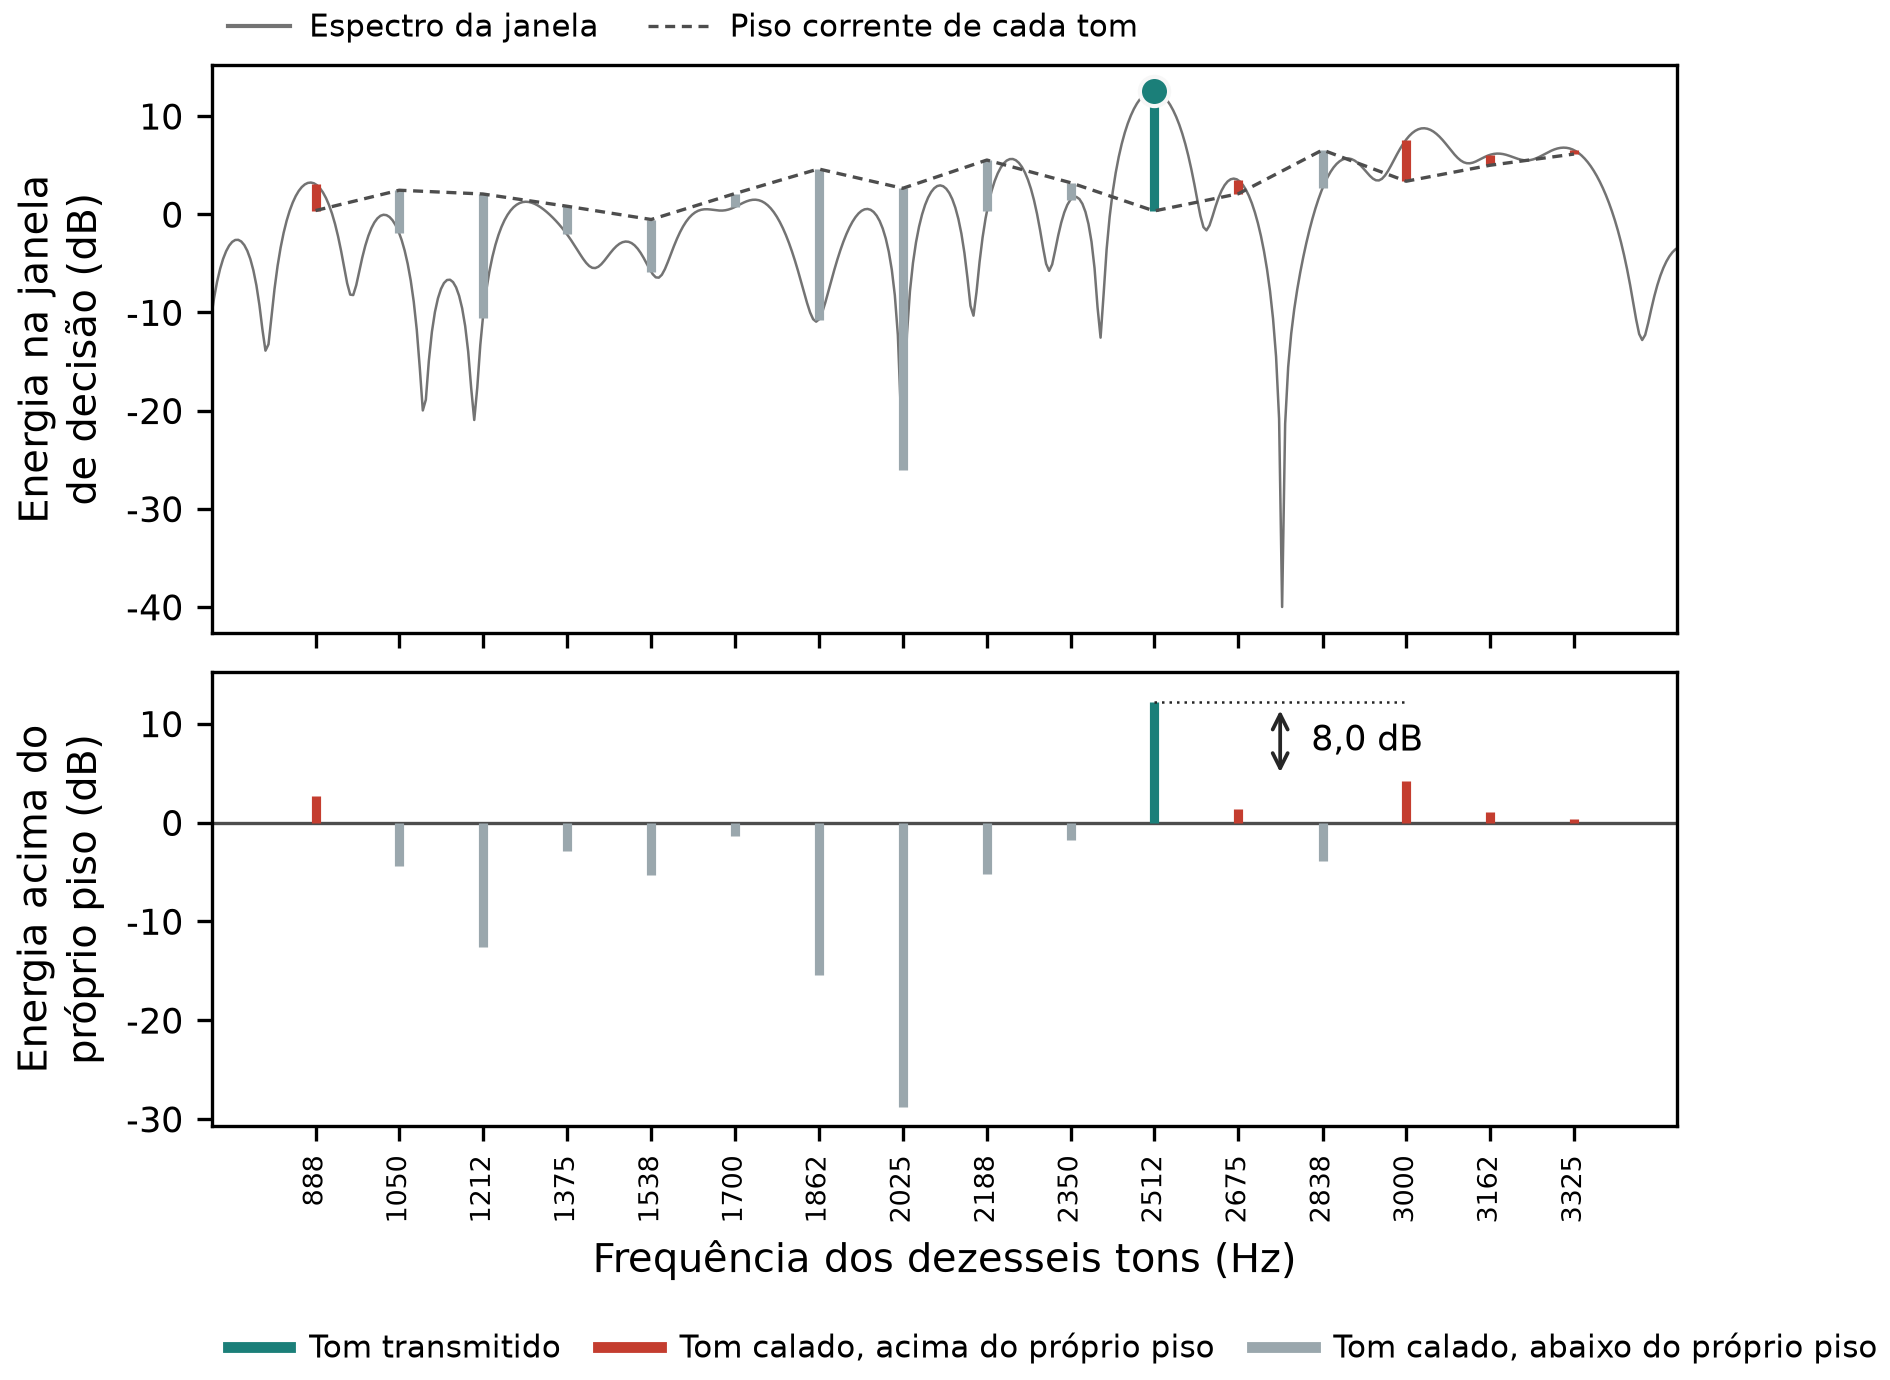
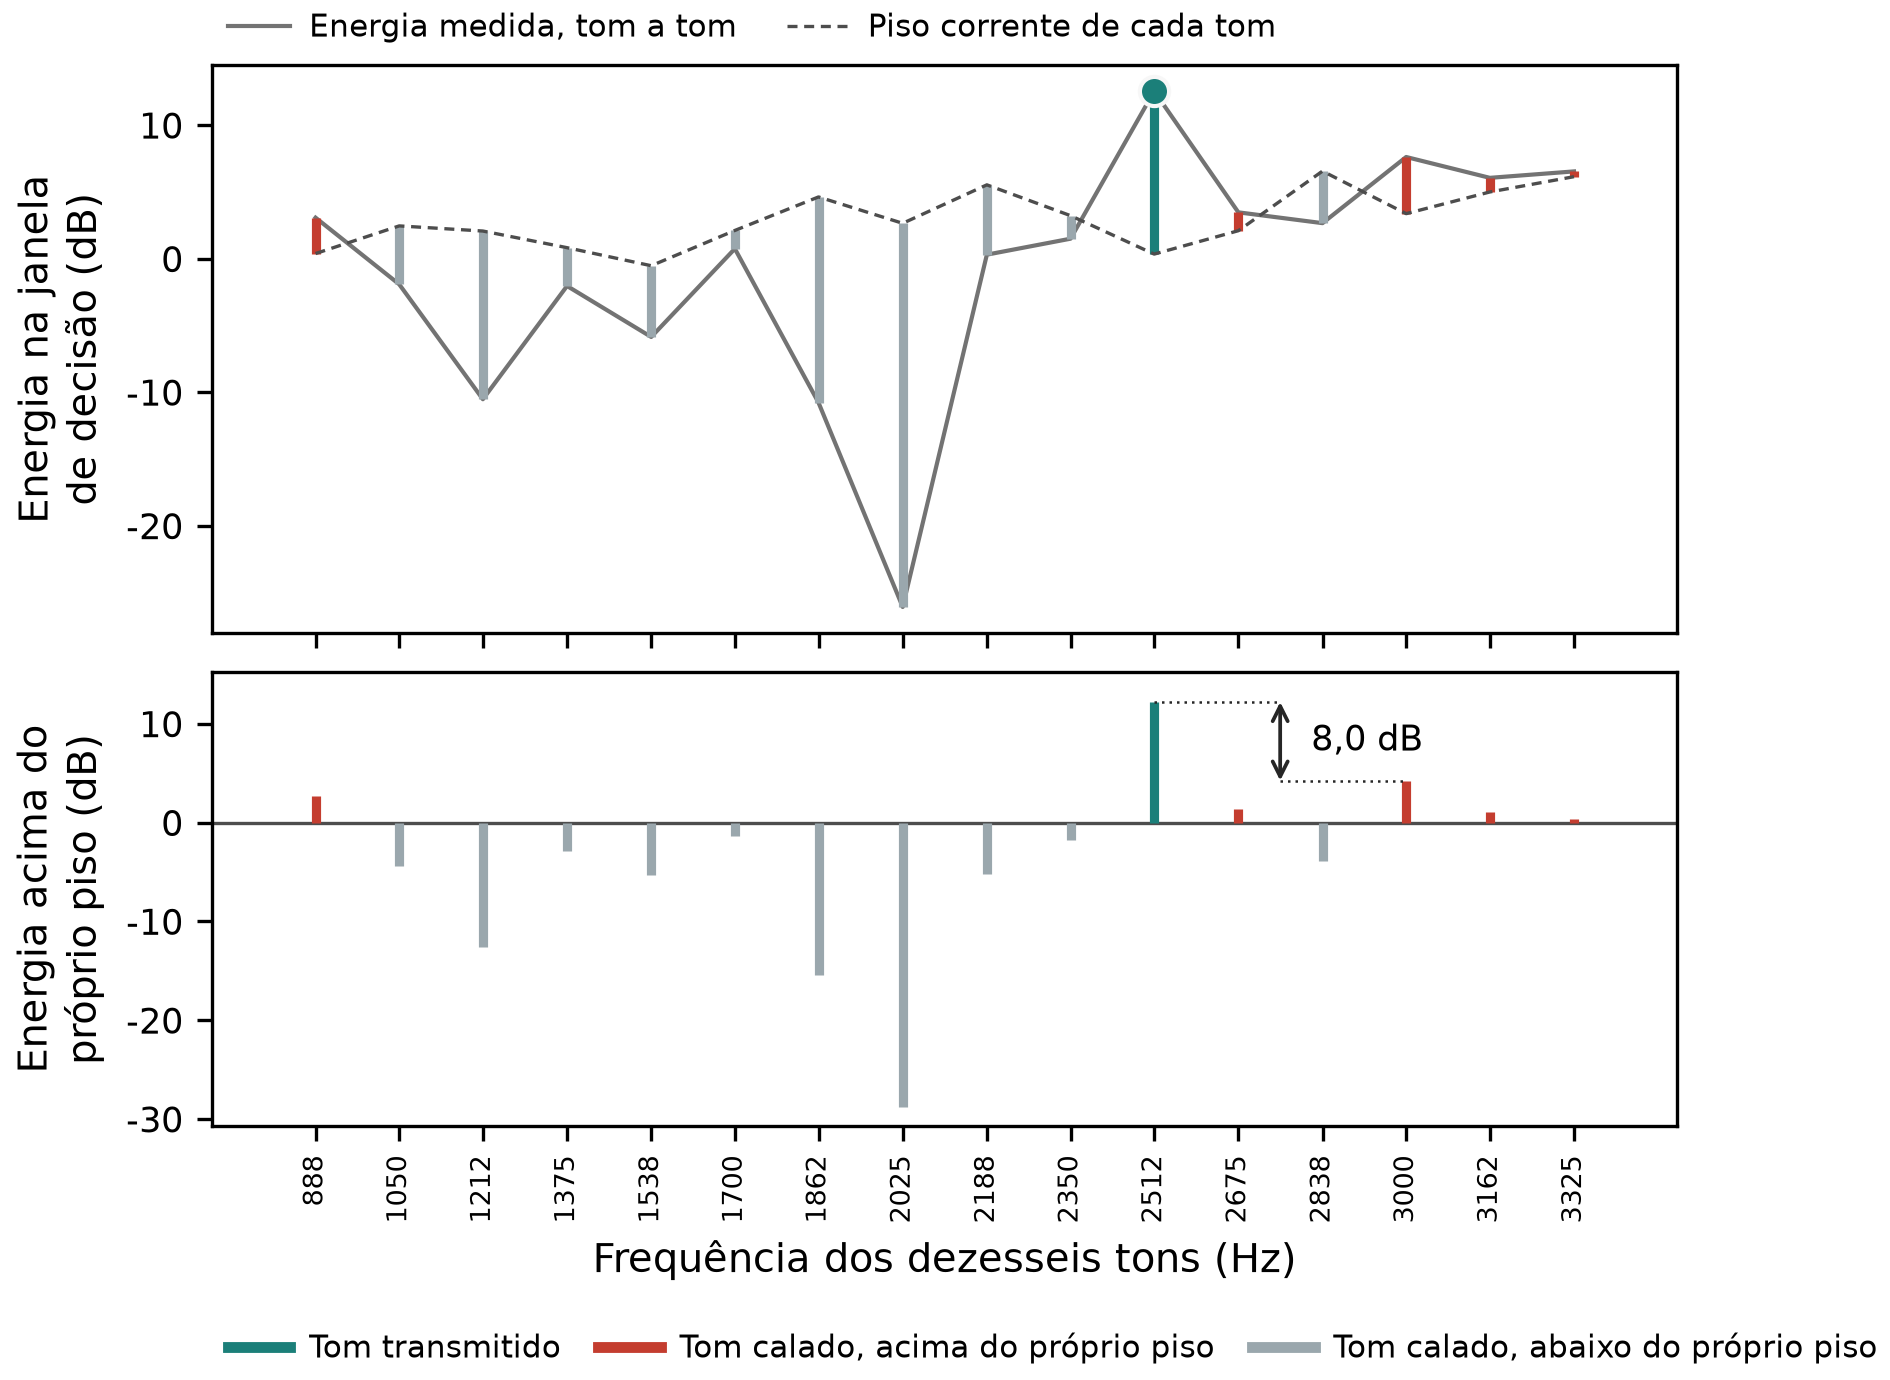
docs: a guarda é 15%, e os 35% eram um caso de teste
Os dois CLAUDE.md afirmavam que o intervalo de guarda é 35% de cada símbolo.
O código diz 15%: `guard=0.15` nos dois demoduladores de `modem.py`, 72
amostras de 480, decisão sobre as 408 restantes. Os 35% existem só como caso
ajustado para reverberação simulada dentro do `loopback_test.py`, e é de lá que
vem o ganho de 76,5% para 100% que a raiz citava sem dizer a condição.

Duas sessões esbarraram nisso de forma independente, desenhando figuras a
partir das gravações. Todo número medido no ar neste repositório saiu com 0,15,
e o texto do artigo já usa 15%.

Claude-Session: https://claude.ai/code/session_01QZUV2sowrDt1bc1pT4UXp1

diff --git a/resultados/07-MARY-BASE/figuras/figura_decisao.py b/resultados/07-MARY-BASE/figuras/figura_decisao.py
@@ -1,9 +1,9 @@
 """Figura do artigo: a decisao da 16-FSK em um simbolo.
 
-Espectro da janela em que o receptor decidiu um simbolo, com os dezesseis
-tons no mesmo eixo: o transmitido e os quinze calados. A curva mostra a banda
-inteira; atras dela, uma barra fina em cada tom mostra o numero que a decisao
-usa, que e a energia daquele tom acima do piso corrente dele.
+Os dezesseis tons na janela em que o receptor decidiu um simbolo: o
+transmitido e os quinze calados. Em cima, a energia medida em cada tom e o
+piso corrente dele; embaixo, a mesma medida contada do proprio piso, que e o
+numero que a decisao usa.
 
     ./venv/bin/python resultados/07-MARY-BASE/figuras/figura_decisao.py [--stem S] [--simbolo K] [--out PNG]
 
@@ -13,10 +13,12 @@ do segundo colocado e a margem anotada. Foi para isso que o piso entrou na
 figura: o canal e um pente, o ruido de fundo varia de tom para tom, e comparar
 alturas absolutas nao e o que o receptor faz.
 
-A curva e a FFT da mesma janela que o detector mediu, mesma amostra inicial e
-mesmo comprimento, sem intervalo de guarda e sem janelamento, porque e assim
-que `MaryDemodulator._energies` mede. Os dezesseis pontos nao sao lidos da
-curva: sao as energias que o detector calculou.
+A linha liga os dezesseis pontos medidos, e nao e a FFT densa da janela. A
+FFT densa foi tentada: com 408 amostras e sem janelamento, cada tom vira um
+montinho de 118 Hz de largura com covas fundas dos dois lados, que e o formato
+da janela e nao o canal, e ocupa a figura falando de uma coisa que a decisao
+nao olha. O detector le dezesseis numeros por simbolo, tirados de
+`MaryDemodulator._energies`, e sao esses que a figura desenha.
 
 O simbolo desenhado por padrao nao e escolhido a mao. E o simbolo do trecho
 das outras duas figuras cuja margem esta mais perto da mediana do bloco, entre
@@ -38,7 +40,6 @@ from comum import (CERTO, CONTORNO, CURVA, ERRADO, GRADE, LARGURA,
 
 NOME = '16fsk-decisao.png'
 TRECHO = (290, 320)      # o mesmo das outras duas figuras
-NFFT = 8192
 
 
 def db(v):
@@ -93,13 +94,6 @@ def main():
     k = args.simbolo if args.simbolo is not None else tipico(a, margem_bloco,
                                                              *TRECHO)
     i0, i1 = a.janela(k)
-    seg = a.amostras[i0:i1]
-
-    # Sem janelamento e com o mesmo comprimento do detector, para que os
-    # dezesseis pontos caiam sobre a curva em vez de serem uma segunda medida
-    # ao lado dela. O preenchimento com zeros e so resolucao de desenho.
-    espectro = db(np.abs(np.fft.rfft(seg, n=NFFT)) ** 2)
-    freq = np.fft.rfftfreq(NFFT, 1.0 / a.fs)
 
     energia, piso, norma = db(a.energia(k)), db(a.piso(k)), a.norma(k)
     ordem = np.argsort(norma)
@@ -123,8 +117,14 @@ def main():
              else (ERRADO if alturas[i_t] > 0 else NEGATIVO)
              for i_t in range(len(MARY_TONES))]
 
-    faixa = (freq >= min(MARY_TONES) - 300) & (freq <= max(MARY_TONES) + 300)
-    ax.plot(freq[faixa], espectro[faixa], color=CURVA, linewidth=0.6, zorder=2)
+    # Os dezesseis pontos medidos ligados por retas, e nao a FFT densa da
+    # janela. A FFT densa foi tentada e desenha um montinho de 118 Hz de
+    # largura em cada tom, com covas fundas entre eles: e o formato de uma
+    # janela de 408 amostras sem janelamento, nao o canal, e ocupa a figura
+    # falando de uma coisa que a decisao nao olha. O detector le dezesseis
+    # numeros, e e isso que a linha liga. Ela cai sobre o topo de cada barra
+    # por construcao, e tem a mesma forma da linha do piso, que ja era isso.
+    ax.plot(MARY_TONES, energia, color=CURVA, linewidth=1.0, zorder=2)
     ax.vlines(MARY_TONES, piso, energia, color=cores, linewidth=2.2, zorder=3)
     ax.plot(MARY_TONES, piso, color=GRADE, linewidth=0.8,
             linestyle=(0, (3, 2)), zorder=4)
@@ -134,7 +134,7 @@ def main():
     ax.set_ylabel('Energia na janela\nde decisão (dB)')
     ax.legend(handles=[
         Line2D([], [], color=CURVA, linewidth=1.0,
-               label='Espectro da janela'),
+               label='Energia medida, tom a tom'),
         Line2D([], [], color=GRADE, linewidth=0.8, linestyle=(0, (3, 2)),
                label='Piso corrente de cada tom'),
     ], loc='lower left', bbox_to_anchor=(0.0, 1.01), frameon=False, ncols=2,
@@ -151,11 +151,18 @@ def main():
     # duas barras, e so aqui as duas alturas sao comparaveis a olho.
     xv, xs = MARY_TONES[detectado], MARY_TONES[segundo]
     x_seta = (xv + xs) / 2
-    bx.plot([xv, xs], [alturas[detectado]] * 2, color='0.15', linewidth=0.6,
-            linestyle=(0, (1, 2)), zorder=4)
+    # Uma linha de chamada por barra, e nao so pela mais alta: a flecha mede
+    # a distancia entre duas alturas, entao as duas precisam estar marcadas
+    # ou ela parece medir de um valor ate coisa nenhuma.
+    for x_tom, altura in ((xv, alturas[detectado]), (xs, alturas[segundo])):
+        bx.plot(sorted((x_tom, x_seta)), [altura, altura], color='0.15',
+                linewidth=0.6, linestyle=(0, (1, 2)), zorder=4)
+    # `shrinkA`/`shrinkB` em zero: o padrao recua alguns pontos em cada ponta
+    # e a flecha fica sem encostar nas duas linhas que ela liga.
     bx.annotate('', xy=(x_seta, alturas[detectado]),
                 xytext=(x_seta, alturas[segundo]),
-                arrowprops=dict(arrowstyle='<->', linewidth=0.9, color='0.15'))
+                arrowprops=dict(arrowstyle='<->', linewidth=0.9, color='0.15',
+                                shrinkA=0, shrinkB=0), zorder=5)
     bx.annotate(f"{virgula(margem)} dB",
                 xy=(x_seta + 60, (alturas[detectado] + alturas[segundo]) / 2),
                 ha='left', va='center', fontsize=8.5)

diff --git a/CLAUDE.md b/CLAUDE.md
@@ -194,7 +194,7 @@ stdout/PTY <── rx_byte_queue <── [demodulator thread] <── rx_audio_q
 
 **200 Hz within a pair is a measured optimum, not a round number.** Widening it to 250 Hz was tried and packet recovery under the loopback's simulated reverberation fell from 7/8 to 3/8. The symbol window after the guard interval is 8.5 ms, giving roughly 118 Hz of frequency resolution, and pushing the members of a pair apart necessarily pushes the pairs themselves closer together. The loopback packet test is what notices when this goes wrong; re-measure before changing it.
 
-**MFSK needs an alternating preamble and a trailing idle; neither is optional.** Timing recovery is an early/late gate steered by decision contrast, which peaks when the window sits inside one symbol — so it needs *transitions* to lock onto, and a preamble that idles at mark teaches it nothing. At the other end the demodulator keeps just over a symbol buffered, so a burst that stops dead strands its last byte there. `MFSKModulator.idle()` supplies the tail, and `console.py`'s transmit feeder appends `idle(4)` after any non-Bell-202 burst for this reason — without it every `send` silently lost its final byte. **This is true of M-ary too**, and the feeder tested for `mode == 'mfsk'` alone until 5598abc: a ten-byte M-ary send arrived as `ABCDEFGHI` on a channel with no impairment whatsoever. Bell 202 needs no tail and its modulator offers none. The guard interval (35% of each symbol, skipped before measuring) is what makes reverberation survivable: measured, it took accuracy from 76.5% to 100% on a channel with an 80 ms tail.
+**MFSK needs an alternating preamble and a trailing idle; neither is optional.** Timing recovery is an early/late gate steered by decision contrast, which peaks when the window sits inside one symbol — so it needs *transitions* to lock onto, and a preamble that idles at mark teaches it nothing. At the other end the demodulator keeps just over a symbol buffered, so a burst that stops dead strands its last byte there. `MFSKModulator.idle()` supplies the tail, and `console.py`'s transmit feeder appends `idle(4)` after any non-Bell-202 burst for this reason — without it every `send` silently lost its final byte. **This is true of M-ary too**, and the feeder tested for `mode == 'mfsk'` alone until 5598abc: a ten-byte M-ary send arrived as `ABCDEFGHI` on a channel with no impairment whatsoever. Bell 202 needs no tail and its modulator offers none. The guard interval, skipped before measuring, is what makes reverberation survivable: measured, it took accuracy from 76.5% to 100% on a channel with an 80 ms tail. **That measurement is the 0.35 guard, and 0.35 is not what ships.** Both demodulators default to `guard=0.15` (72 samples of 480, decision over the remaining 408), and 0.35 exists only as a pinned reverberation-tuned case inside `loopback_test.py`. This file said 35% of every symbol for months, two sessions caught it independently while drawing figures from real recordings, and every number measured on the air in this repository was taken at 0.15.
 
 **The link must work in both directions, and for a long time it only worked in one.** Not for an acoustic reason: `console.py` could *transmit* an error-corrected block but not receive one, because soft decoding lived only in `bench.py` and `recvfile.py` — and both own their own audio, so both only ever run on the **console** side. Swap the roles and the receiver becomes the headless agent, which could only hard-decode. The working direction therefore followed whoever held the keyboard instead of being a property of the link. `fecrx` (5598abc) fixes it in the one place that makes it symmetric: the shared command table, where `execute()` is identical on both roles, so a single entry gives both machines the capability. Anything else that only one side can do belongs there too — and when adding it, check `fec_layer`: parallel MFSK keeps its own instance pair, so naming the layer as `self.mode` puts transmitter and receiver on different objects.
 

diff --git a/artigo/CLAUDE.md b/artigo/CLAUDE.md
@@ -16,7 +16,7 @@ Artigo em **português** para o VII SIMECA (IFPR) sobre o modem acústico do rep
 
 **Duas camadas, decisão do autor em 2026-09-05.** O artigo apresenta a implementação da camada física e da camada de enlace. Física: as quatro formas de transmissão (2-FSK, 5×2-FSK votada, 5×2-FSK multicanal, 16-FSK), o sincronismo de símbolo e a decisão suave do demodulador. Enlace: o bloco codificado (convolucional K=7, Viterbi suave, entrelaçamento, repetição, palavra de sincronismo por correlação), o pacote com número de sequência e CRC, a subdivisão do arquivo em pacotes e o reenvio do que não chega até um limite de tentativas. Subdivisão e reenvio são enlace, ao modo de HDLC, não transporte. Acima das duas a aplicação vê uma porta serial virtual.
 
-**O eco entra como propriedade do meio, nunca como dificuldade que enfrentamos.** O projeto antecipa reverberação, e é por isso que existe o intervalo de guarda de 35% do símbolo, mas nesta bancada não há cauda mensurável: o sinal para no piso de ruído. A seção 2.3 apresenta o fenômeno com gancho para a 4, e a 4 fecha esse gancho pela negativa, dizendo que a guarda foi projetada contra uma cauda que esta sala não tem. Se o eco entrasse na introdução como obstáculo vencido, os resultados desmentiriam o texto. As dificuldades que a bancada de fato encontrou são o pente, a saturação da cadeia analógica, o viés de amplitude da 2-FSK, os relógios independentes e o alinhamento de nibble da 16-FSK.
+**O eco entra como propriedade do meio, nunca como dificuldade que enfrentamos.** O projeto antecipa reverberação, e é por isso que existe o intervalo de guarda, 15% de cada símbolo, 72 amostras de 480, descartadas antes de medir (`guard=0.15` nos dois demoduladores de `modem.py`; os 35% que este arquivo afirmava até 2026-09-07 são um caso de teste do `loopback_test.py`, ajustado para reverberação simulada, e nunca foram o ajuste do enlace). A seção 2.3 apresenta o fenômeno com gancho para a 4, e a 4 fecha esse gancho pela negativa, dizendo que a guarda foi projetada contra uma cauda que esta sala não tem. Se o eco entrasse na introdução como obstáculo vencido, os resultados desmentiriam o texto. As dificuldades que a bancada de fato encontrou são o pente, a saturação da cadeia analógica, o viés de amplitude da 2-FSK, os relógios independentes e o alinhamento de nibble da 16-FSK.
 
 **O cabo serial entre as máquinas recebe uma menção muito breve na seção de bancada e resultados, como auxílio do ensaio, e só ali.** Decisão do autor, 2026-09-05, revendo a anterior de omiti-lo por completo. Ele só auxilia e automatiza o ensaio, não é recurso da comunicação, e apresentá-lo além de uma frase confundiria mais do que ajudaria. A frase diz que a carga conhecida é gerada dos dois lados e que os bytes pontuados viajaram só pelo ar.
 

diff --git a/resultados/07-MARY-BASE/figuras/COMO-REFAZER.md b/resultados/07-MARY-BASE/figuras/COMO-REFAZER.md
@@ -133,10 +133,23 @@ em vez de um espectrograma.
 **As duas partilham `figura_tons.desenha` e `figura_tons.legenda`**, para que
 nao possam divergir em nada que nao seja o que cada uma tem a dizer.
 
-**A figura da decisao tem dois paineis alinhados na frequencia.** Em cima o
-espectro da janela, com a FFT como curva e uma barra em cada tom na altura que
-o detector mediu, mais o piso corrente. Embaixo a mesma medida contada do
-proprio piso de cada tom, que e a grandeza que decide. As barras tem a mesma
+**A figura da decisao tem dois paineis alinhados na frequencia.** Em cima a
+energia medida em cada tom, com os dezesseis pontos ligados por retas, mais o
+piso corrente. Embaixo a mesma medida contada do proprio piso de cada tom, que
+e a grandeza que decide.
+
+**Nao ha FFT densa da janela, e ela foi tentada.** Com 408 amostras e sem
+janelamento, cada tom vira um montinho de 118 Hz de largura com covas fundas
+dos dois lados. Isso e o formato da janela de medida, nao o canal, e ocupa a
+figura falando de uma coisa que a decisao nao olha; o detector le dezesseis
+numeros por simbolo. Janela de Hann so na curva foi tentada tambem e e pior:
+alisa os montes mas tira a curva de cima dos pontos medidos, entao a linha
+deixa de passar pelo topo das barras e vira uma segunda medida ao lado delas.
+Ligar os dezesseis pontos por retas nao tem nenhum dos dois problemas, cai
+sobre o topo de cada barra por construcao e tem a mesma forma da linha do
+piso. **Isto diverge do padrao da camada de cinco pares**, que mantem a FFT
+como curva; ali a decisao e outra e a divergencia e decisao do usuario,
+tomada em 2026-09-07 olhando as tres variantes. As barras tem a mesma
 espessura e as mesmas cores nos dois paineis, porque sao os mesmos dezesseis
 tons na mesma janela e duas cores para o mesmo tom fariam a figura parecer
 falar de duas coisas; o que muda de um painel para o outro e de onde a barra e
